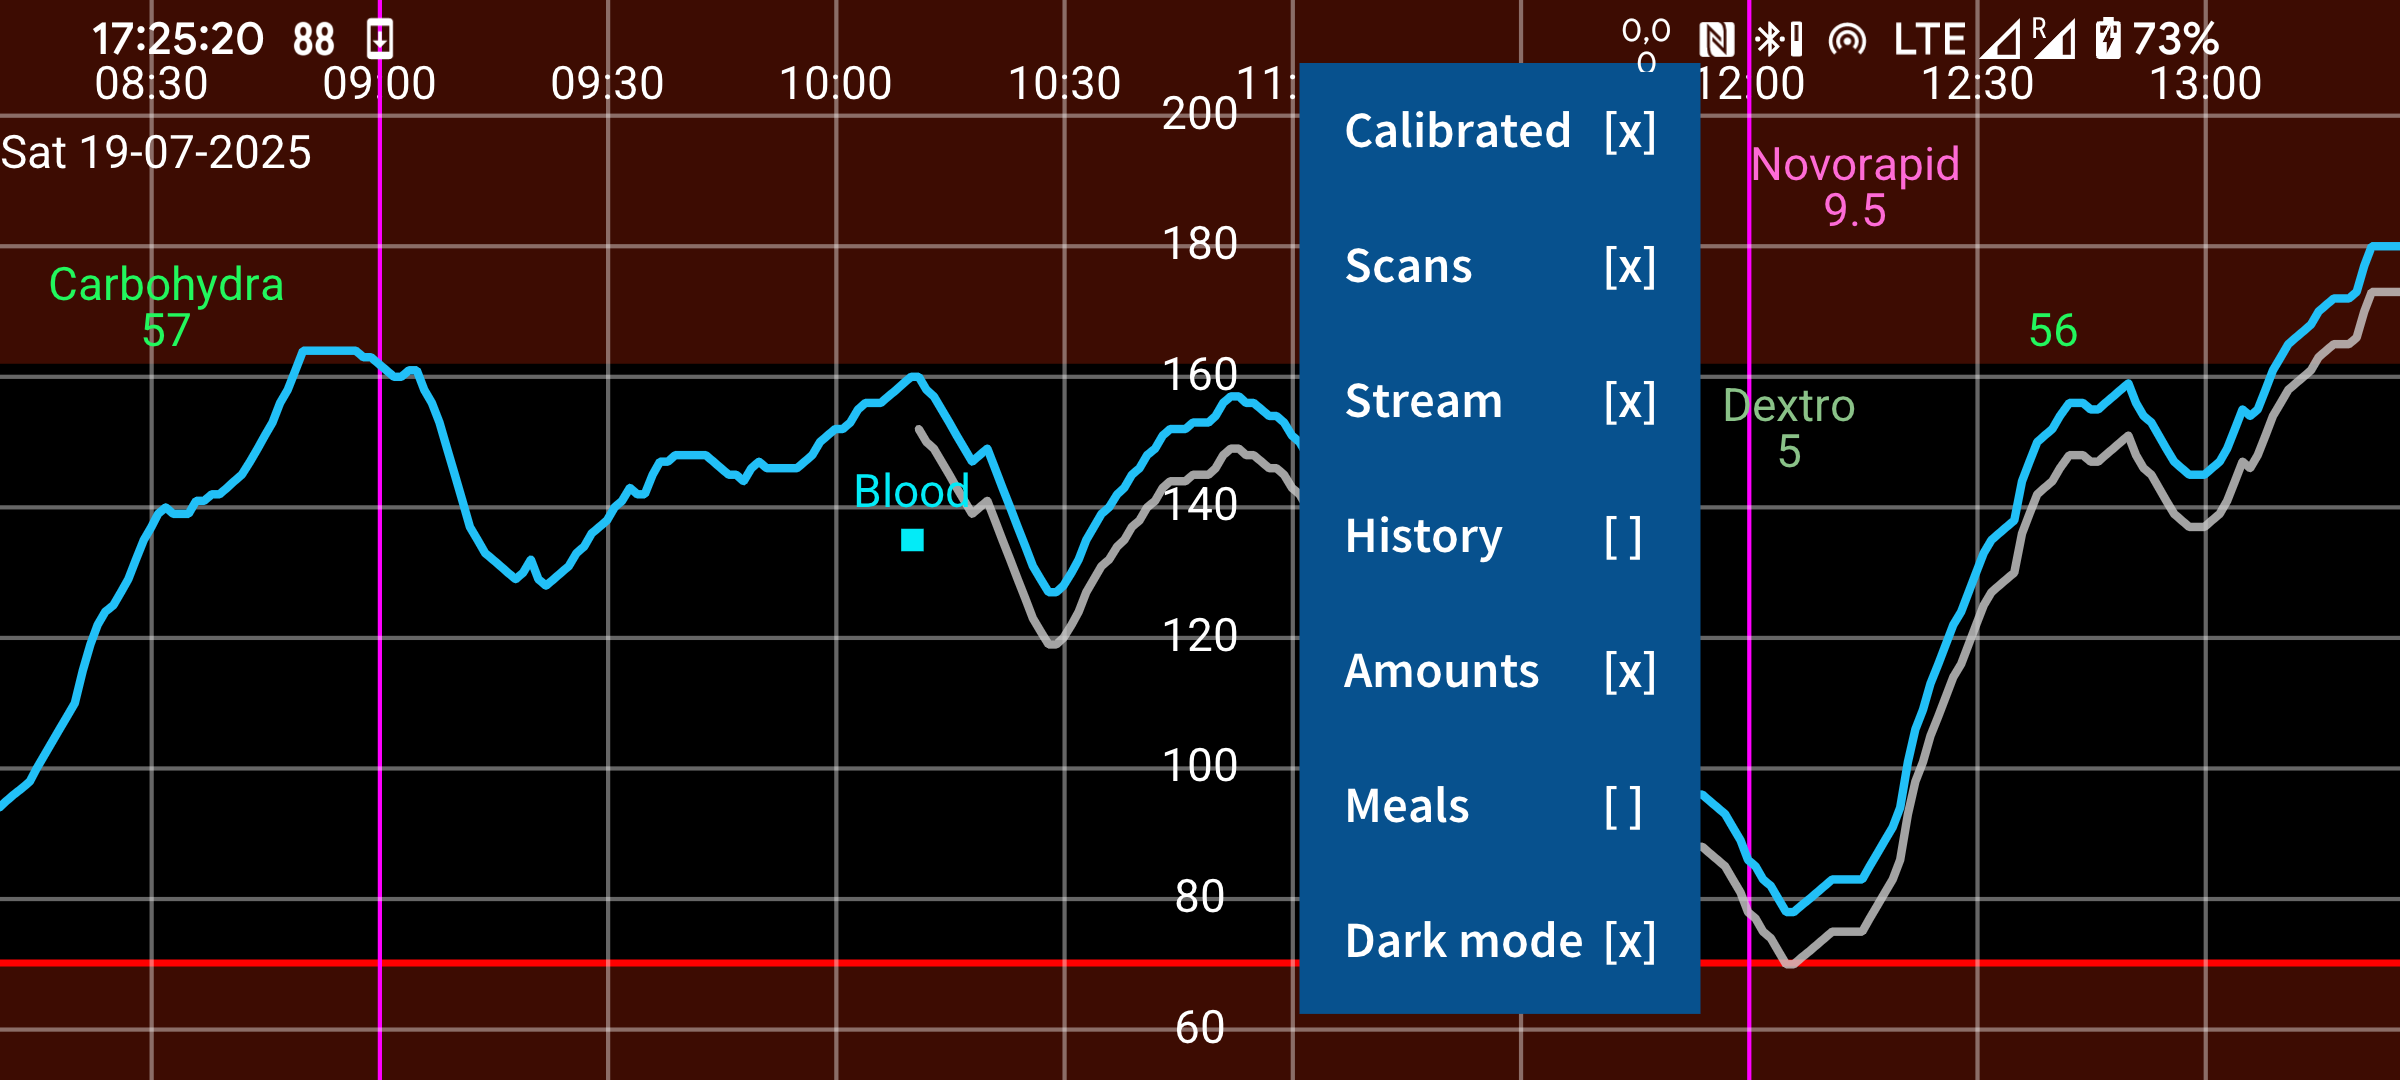
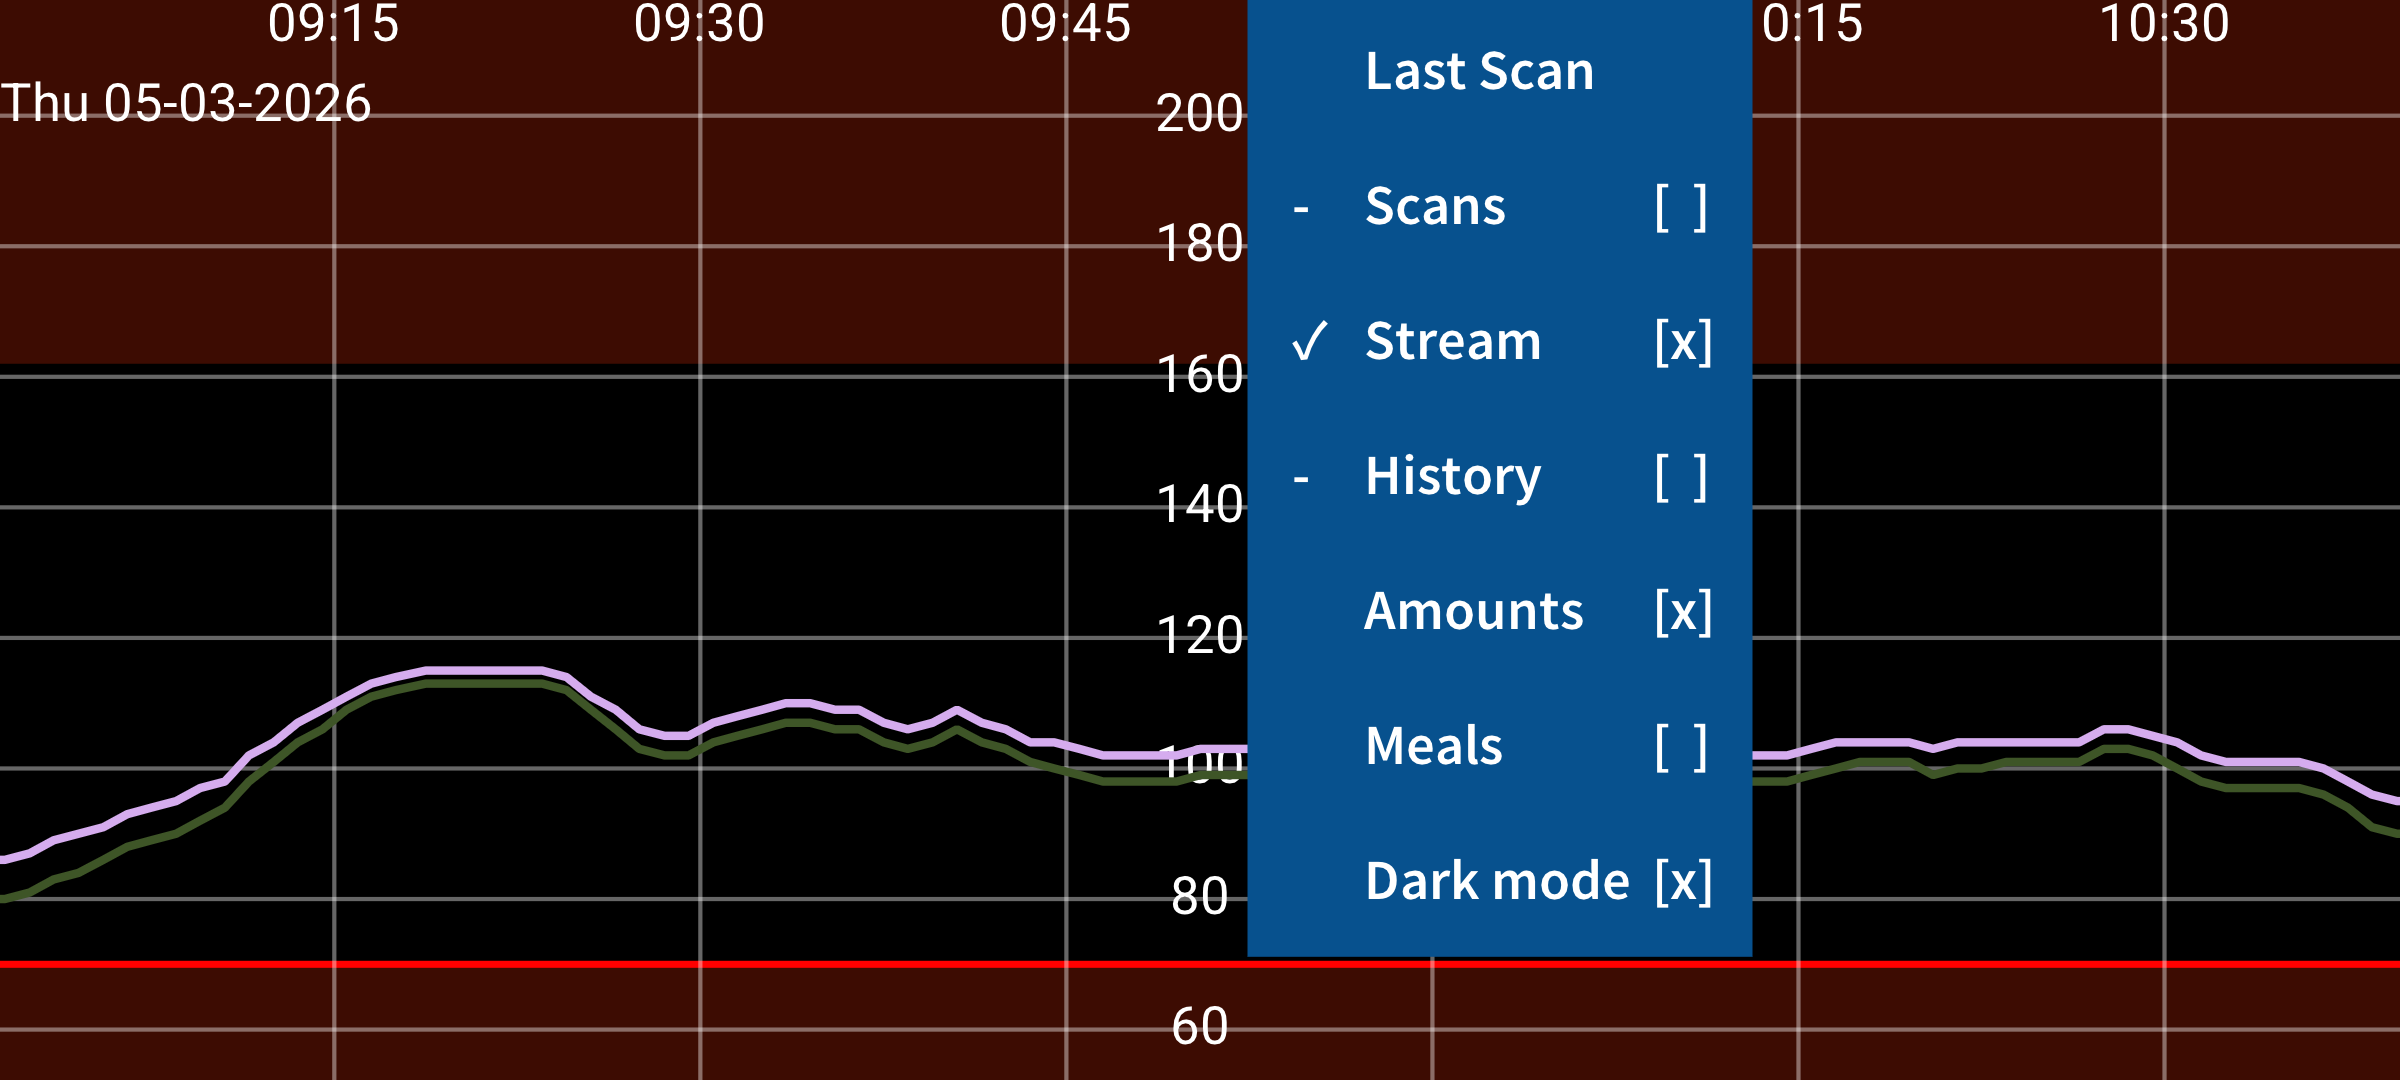
✓

diff --git a/Juggluco/index.html b/Juggluco/index.html
@@ -574,9 +574,7 @@ calibration does. You can use all appropriate blood glucose
 measurements for calibration, but still keep using only the
 uncalibrated values to see what the effect of calibration will before
 using it.</p>
-<p style="line-height: 100%; margin-bottom: 0in">The right middle
-menu has an additional item “Calibrated” that you can switch on
-to see the calibrated values.</p>
+<p style="line-height: 100%; margin-bottom: 0in">In the right middle menu,  ✓ before Stream, Scan or History means that the calibrated values are shown. (The [x] after Stream, Scan and History still means the display of the uncalibrated value.)</p>
     <figure> <img src="Calibrated.png" alt="Calibrated" style="object-fit:contain;
 		    width:11.5cm;		    height:auto;"> <figcaption><span style="font-size: 0.9em; font-family: Times New Roman;">Switch on Calibrated to view curve with calibrated values</span></figcaption>
     </figure>
